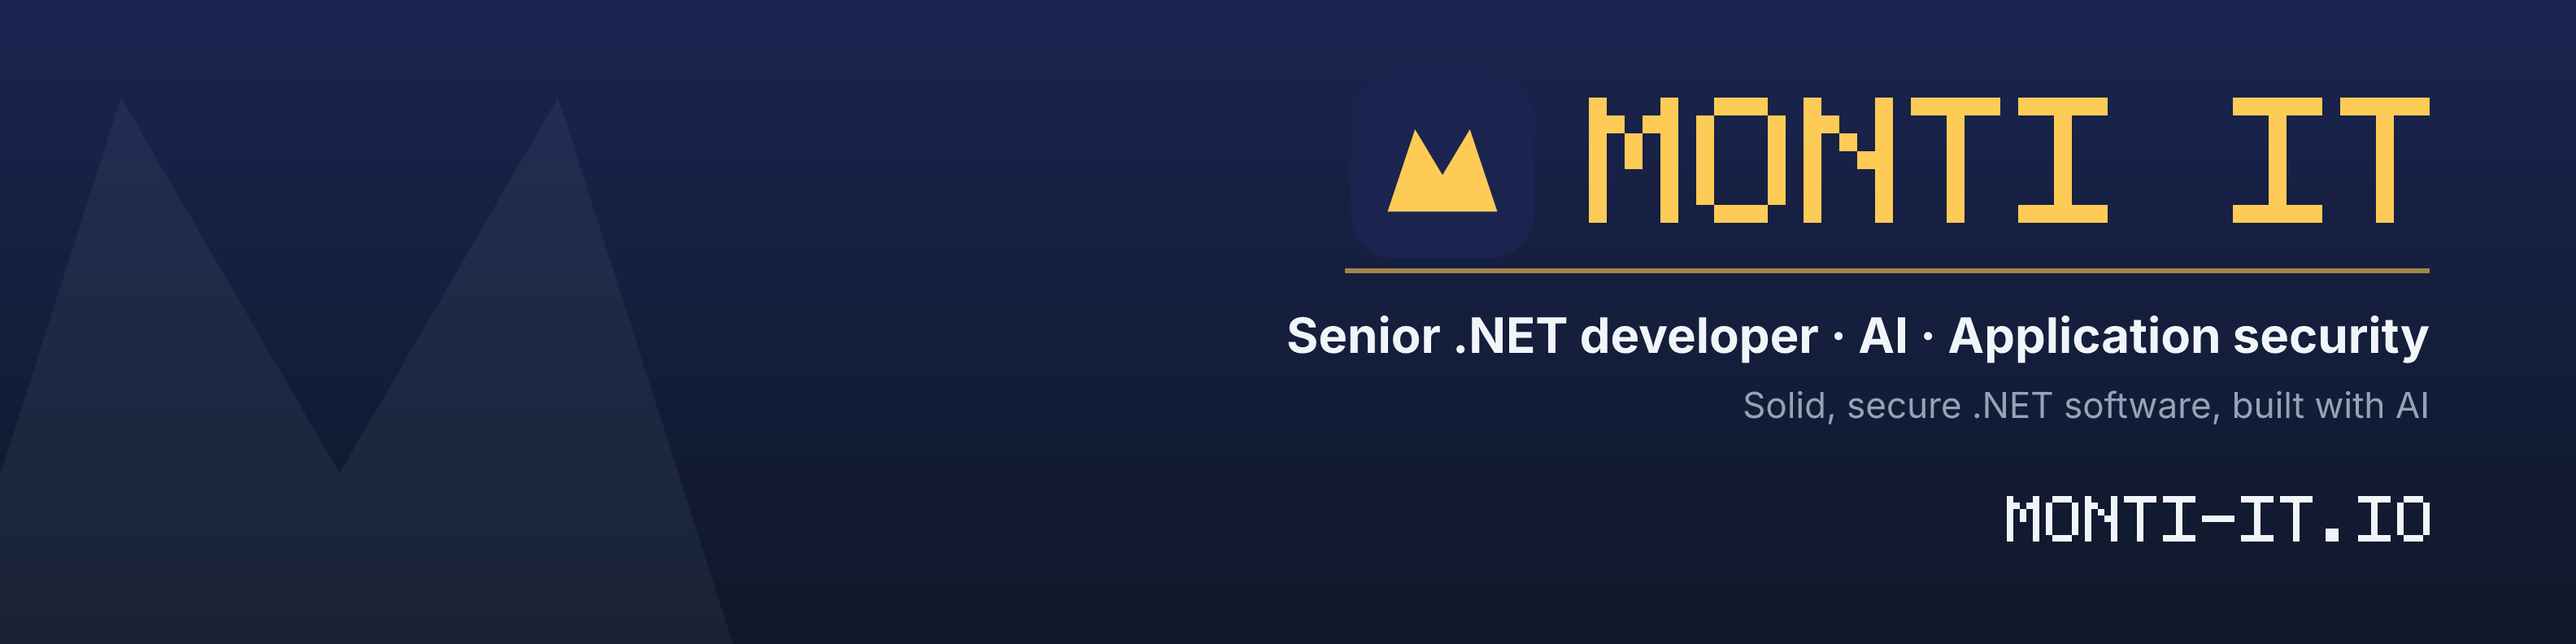
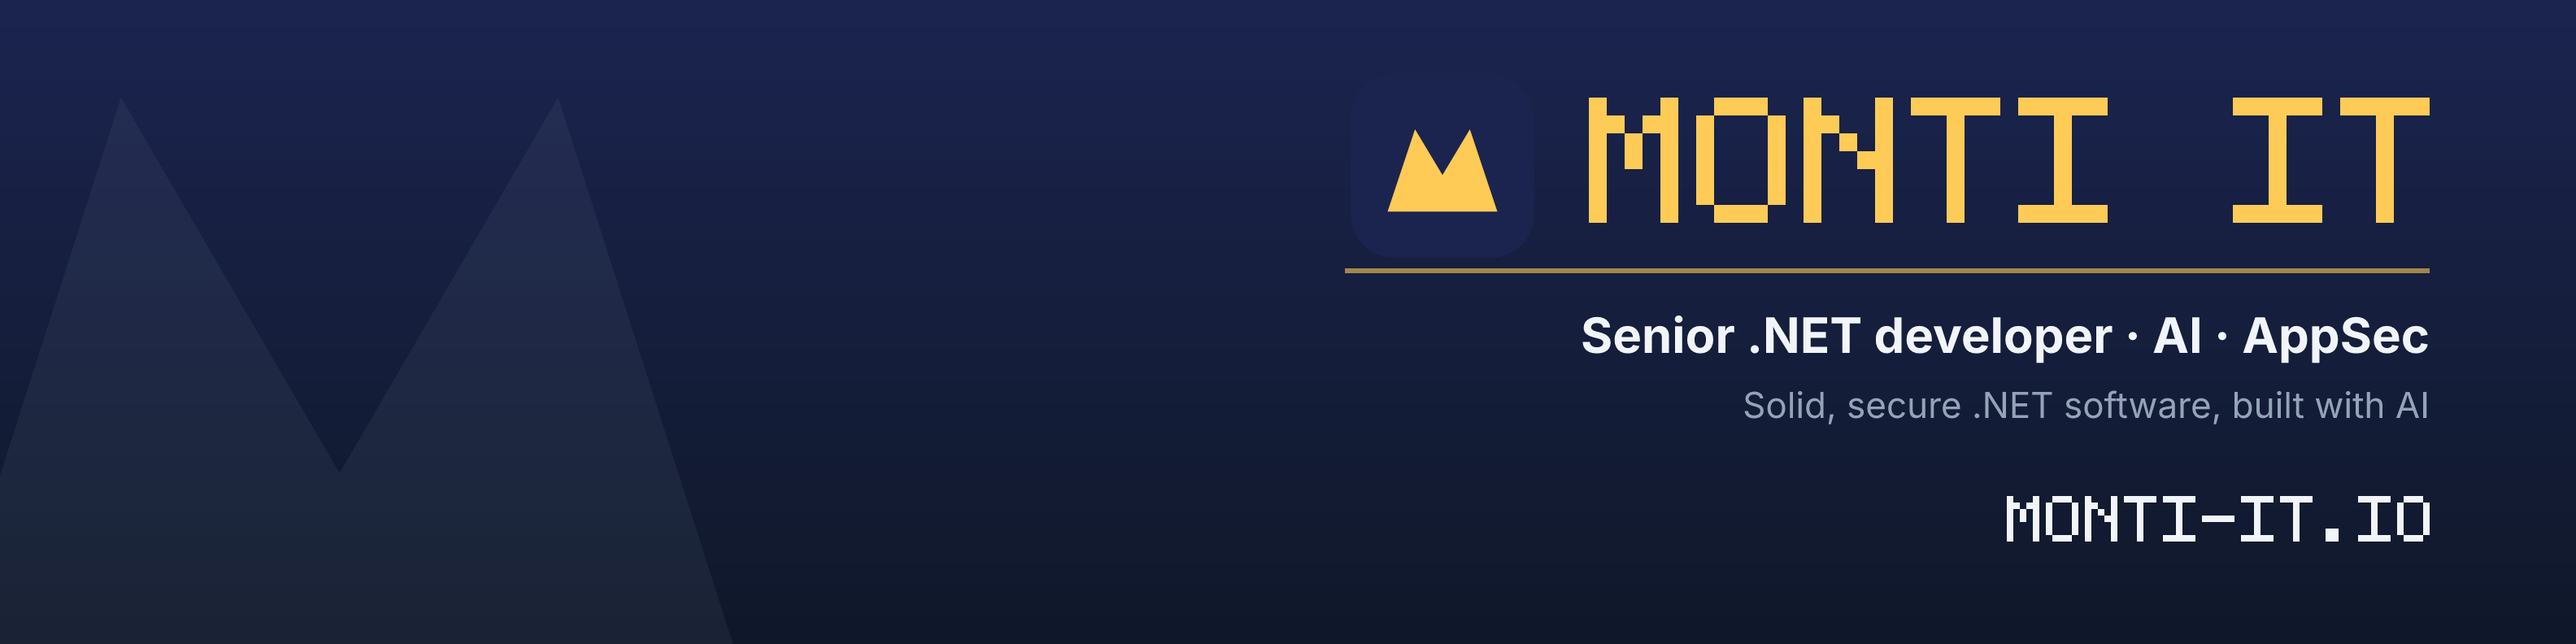
feat: say "AppSec" in labels and titles (#139)
* feat(copy): say "AppSec" in site labels and titles

Hero eyebrow, expertise pillar, skills category and home SEO title
(plus index.html's static title/OG/Twitter tags) now read "AppSec"
in both languages. Prose keeps the spelled-out term.

* feat(resume): say "AppSec" in the résumé title

Regenerates public/resume.pdf. Profile prose is unchanged.

* chore(branding): regenerate banners with the AppSec tagline

* docs(linkedin): use "AppSec" in short labels, spelled out in prose

---------

Changed region(s): [[0.5, 0.4848, 0.9375, 0.5758]]

diff --git a/src/i18n/translations.js b/src/i18n/translations.js
@@ -24,7 +24,7 @@ export const translations = {
       rights: 'Tous droits réservés.'
     },
     header: {
-      eyebrow: 'Développeur .NET senior · IA · Sécurité applicative',
+      eyebrow: 'Développeur .NET senior · IA · AppSec',
       title: "Du logiciel .NET solide et sûr, construit avec l'IA",
       lead: 'Votre application .NET modernisée plus vite, sans rien céder sur la qualité : architecture robuste, code testé, failles fermées avant la prod. Des agents IA écrivent le code sous ma direction, et 21 ans de .NET me permettent de le juger avec un œil de sécurité.',
       ctaMore: 'En savoir plus',
@@ -50,7 +50,7 @@ export const translations = {
             '.NET, Angular, React, bases de données, cloud et outils DevOps'
         },
         securite: {
-          title: 'Sécurité applicative & IA',
+          title: 'AppSec & IA',
           description:
             'Contrôles de sécurité intégrés au CI/CD, revue de code orientée sécurité, sécurisation des fonctionnalités IA'
         },
@@ -319,7 +319,7 @@ export const translations = {
         devops: 'DevOps & Cloud',
         tools: 'Outils & IDE',
         architecture: 'Architecture',
-        securite: 'Sécurité applicative'
+        securite: 'AppSec'
       }
     },
     reseau: {
@@ -631,7 +631,7 @@ export const translations = {
     },
     seo: {
       home: {
-        title: 'Développeur .NET senior freelance · IA & sécurité applicative',
+        title: 'Développeur .NET senior freelance · IA & AppSec',
         description:
           '21 ans de .NET : des agents IA écrivent le code sous ma direction, je le relis avec un œil de sécurité. Missions ou forfait.'
       },
@@ -764,7 +764,7 @@ export const translations = {
       rights: 'All rights reserved.'
     },
     header: {
-      eyebrow: 'Senior .NET developer · AI · Application security',
+      eyebrow: 'Senior .NET developer · AI · AppSec',
       title: 'Solid, secure .NET software, built with AI',
       lead: 'Your .NET application modernized faster, with no compromise on quality: robust architecture, tested code, vulnerabilities closed before production. AI agents write the code under my direction, and 21 years of .NET let me judge it with a security mindset.',
       ctaMore: 'Learn more',
@@ -790,7 +790,7 @@ export const translations = {
             '.NET, Angular, React, databases, cloud and DevOps tooling'
         },
         securite: {
-          title: 'Application security & AI',
+          title: 'AppSec & AI',
           description:
             'Security gates built into CI/CD, security-focused code review, securing AI features'
         },
@@ -1056,7 +1056,7 @@ export const translations = {
         devops: 'DevOps & Cloud',
         tools: 'Tools & IDE',
         architecture: 'Architecture',
-        securite: 'Application Security'
+        securite: 'AppSec'
       }
     },
     reseau: {
@@ -1367,7 +1367,7 @@ export const translations = {
     },
     seo: {
       home: {
-        title: 'Senior .NET freelance developer · AI & application security',
+        title: 'Senior .NET freelance developer · AI & AppSec',
         description:
           '21 years of .NET: AI agents write the code under my direction, and I review it with a security mindset. Engagements or fixed-price.'
       },

diff --git a/index.html b/index.html
@@ -16,7 +16,7 @@
     <meta property="og:type" content="website" />
     <meta
       property="og:title"
-      content="Développeur .NET senior freelance · IA &amp; sécurité applicative | Monti IT"
+      content="Développeur .NET senior freelance · IA &amp; AppSec | Monti IT"
     />
     <meta
       property="og:description"
@@ -33,15 +33,14 @@
     <meta name="twitter:card" content="summary_large_image" />
     <meta
       name="twitter:title"
-      content="Développeur .NET senior freelance · IA &amp; sécurité applicative | Monti IT"
+      content="Développeur .NET senior freelance · IA &amp; AppSec | Monti IT"
     />
     <meta
       name="twitter:description"
       content="21 ans de .NET : des agents IA écrivent le code sous ma direction, je le relis avec un œil de sécurité. Missions ou forfait."
     />
     <title>
-      Développeur .NET senior freelance · IA &amp; sécurité applicative | Monti
-      IT
+      Développeur .NET senior freelance · IA &amp; AppSec | Monti IT
     </title>
   </head>
   <body>

diff --git a/.claude/skills/linkedin/SKILL.md b/.claude/skills/linkedin/SKILL.md
@@ -68,10 +68,12 @@ Check at least:
 - Imply that **AI agents write the code and Christophe frames, reviews and owns it**. Say it plainly
   ("des agents IA écrivent le code sous ma direction : je cadre, je relis et je réponds du résultat"),
   never as "I no longer code".
-- Say **"sécurité applicative"** (EN: "application security"), never "cybersécurité" / "cybersecurity".
+- Say **"AppSec"** in short labels and headlines (both languages), and spell it out as **"sécurité
+  applicative"** (EN: "application security") in prose. Never "cybersécurité" / "cybersecurity".
 - Claim **no security specialist title** (no "expert sécurité", "AppSec engineer", "consultant
   cybersécurité", "security architect") unless a security certification (CSSLP, Security+) appears in
-  `resume.json`. Without one, security is an approach and a direction, not a title.
+  `resume.json`. Without one, security is an approach and a direction, not a title: "AppSec" names a
+  field, never a role.
 - Never use the words **"retraite"** / "retired" or **"maker"**.
 - Don't project AI onto past roles: only the current role and the About may mention AI agents. Every fact
   (company, dates, team size, technology, result) must come from a source file; invent none.
